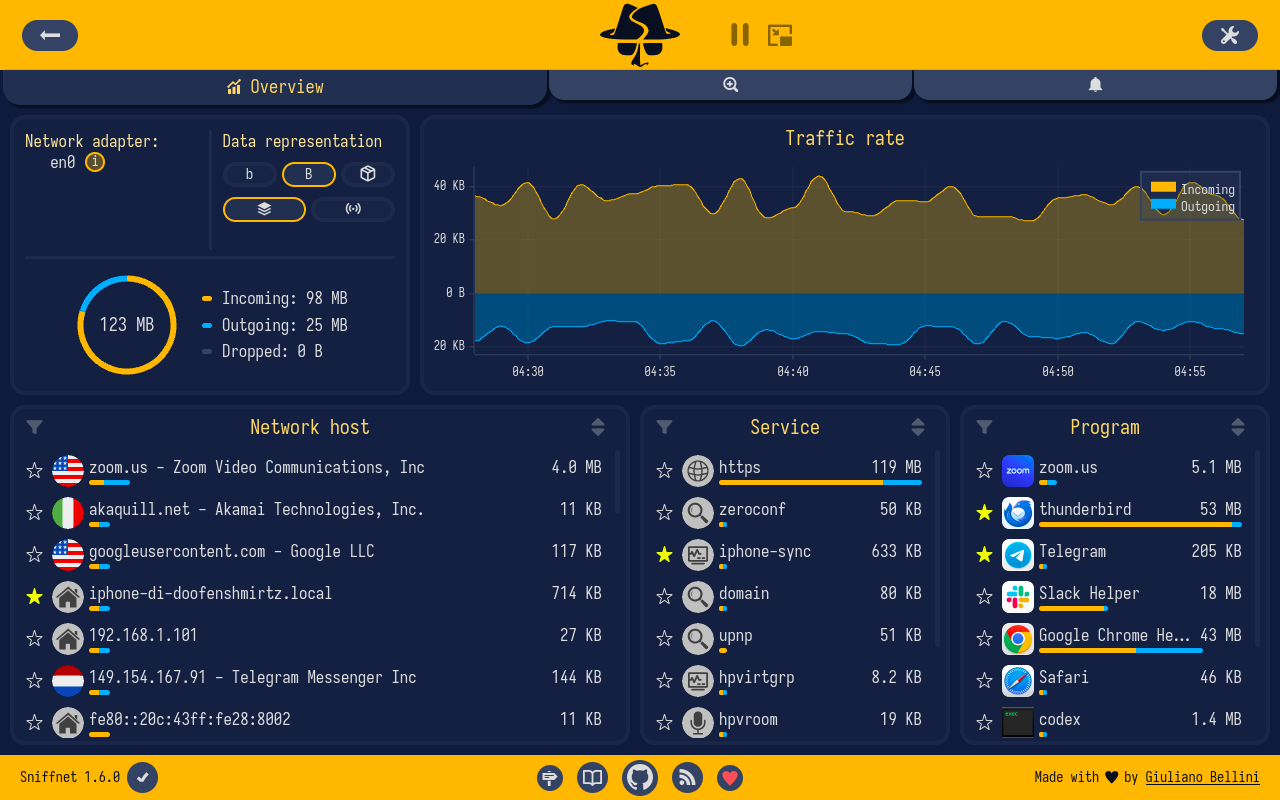
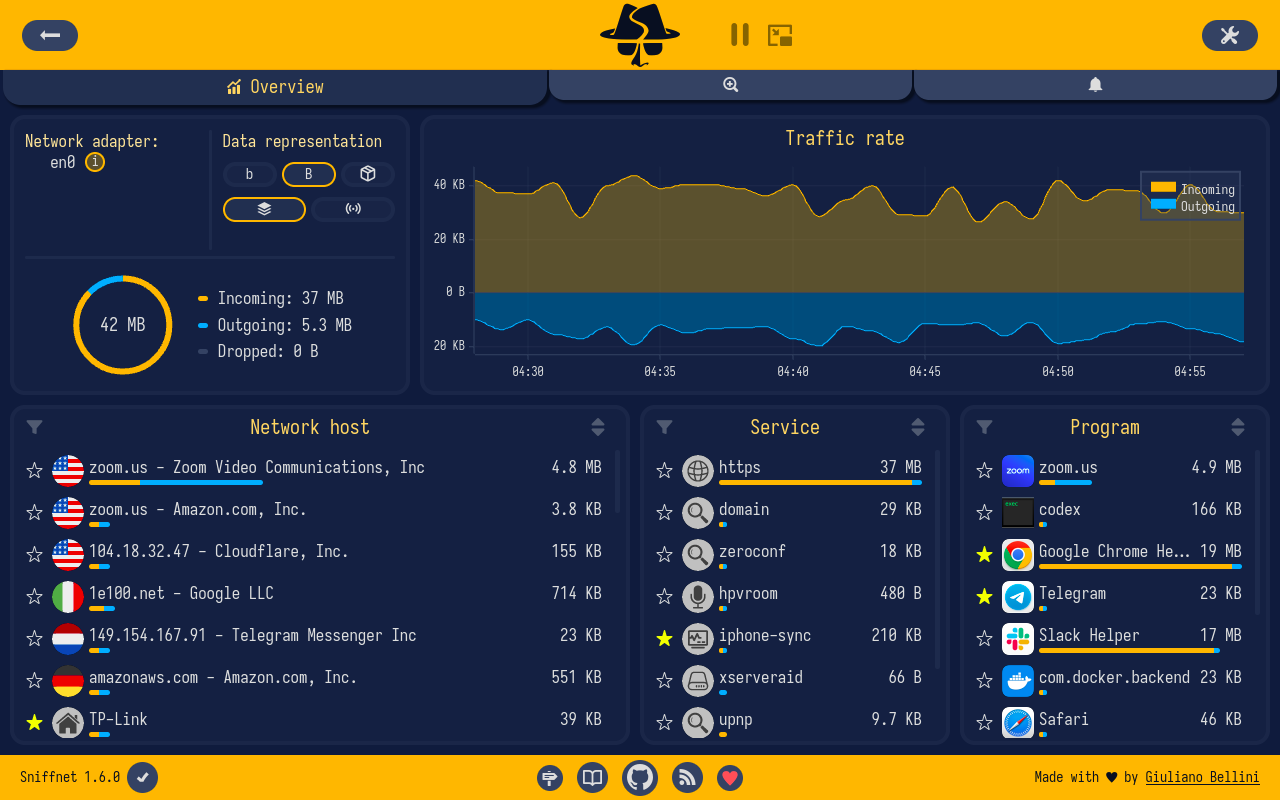
minor updates to overview page screenshot

diff --git a/README.md b/README.md
@@ -53,10 +53,10 @@ A special shout-out to these awesome organizations and folks who are sponsoring 
 </td></tr></table>
 
 <p>
-<a href="https://nlnet.nl" title="NLnet"><img src="https://nlnet.nl/logo/logo.svg" width="60px" alt="NLnet"/></a>&nbsp;&nbsp;
+<a href="https://nlnet.nl" title="NLnet"><img src="https://nlnet.nl/hex/vault/NLnet.greycutout.hex.svg" width="60px" alt="NLnet"/></a>&nbsp;&nbsp;
 <a href="https://www.coderabbit.ai/?utm_source=cr_org&utm_medium=github" title="CodeRabbit"><img src="https://avatars.githubusercontent.com/u/132028505?s=200&v=4" width="60px" alt="CodeRabbit"/></a>&nbsp;&nbsp;
 <a href="https://ipinfo.io" title="IPinfo"><img src="https://avatars.githubusercontent.com/ipinfo?v=4" width="60px" alt="IPinfo"/></a>&nbsp;&nbsp;
-<a href="https://ads.fund" title="ADS Fund"><img src="https://avatars.githubusercontent.com/ADS-Fund?v=4" width="60px" alt="ADS Fund"/></a>&nbsp;&nbsp;
+<a href="https://github.com/github" title="GitHub"><img src="https://avatars.githubusercontent.com/u/9919?v=4" width="60px" alt="GitHub"/></a>&nbsp;&nbsp;
 <a href="https://github.com/Cthulu201" title="Cthulu201"><img src="https://avatars.githubusercontent.com/Cthulu201?v=4" width="60px" alt="Cthulu201"/></a>&nbsp;&nbsp;
 <a href="https://github.com/ZEROF" title="ZEROF"><img src="https://avatars.githubusercontent.com/ZEROF?v=4" width="60px" alt="ZEROF"/></a>&nbsp;&nbsp;
 <a href="https://www.janwalter.org/" title="Jan Walter"><img src="https://avatars.githubusercontent.com/wahn?v=4" width="60px" alt="Jan Walter"/></a>
